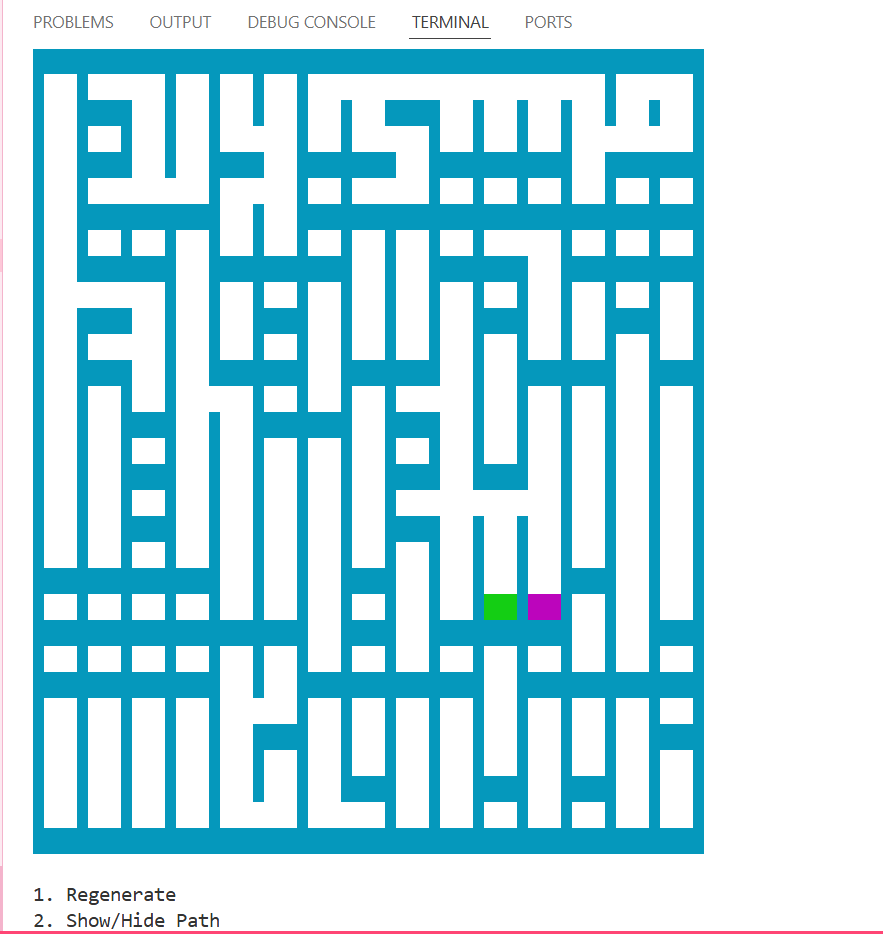
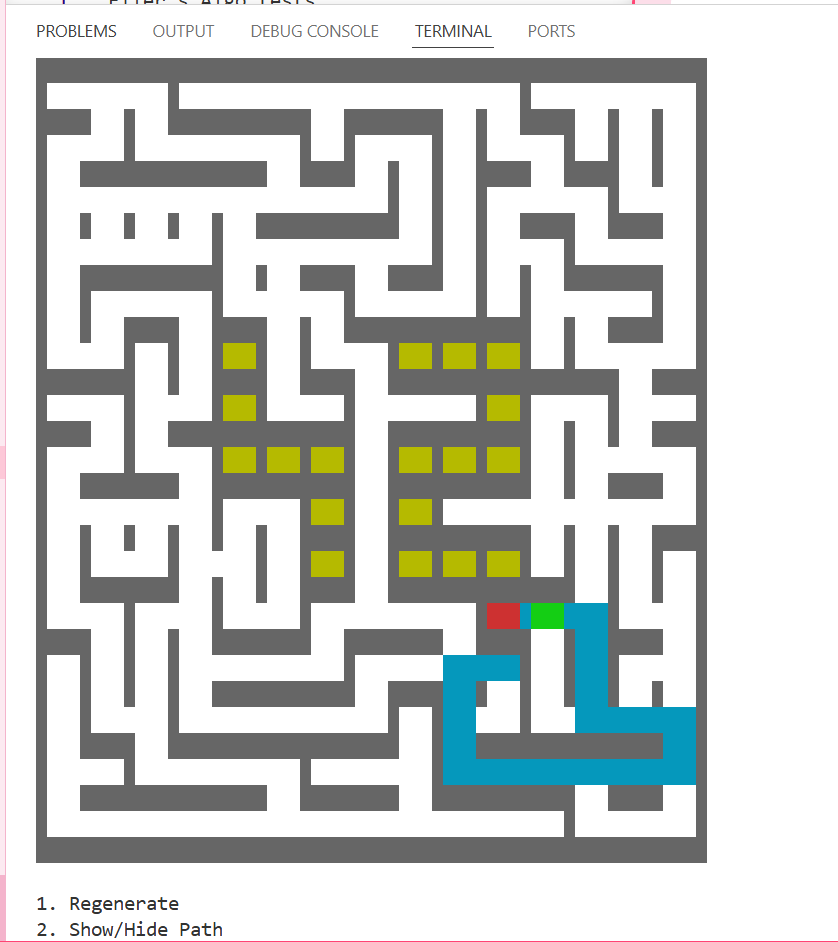
Resolved bug of close by entry exit issue

diff --git a/code/mazegen/generator.py b/code/mazegen/generator.py
@@ -173,6 +173,11 @@ class MazeGenerator:
             current.remove_wall(Direction.SOUTH)
             next_cell.remove_wall(Direction.NORTH)
 
+    def _randomize_seed(self) -> None:
+        if self.seed is None:
+            self.seed = random.randrange(2**32)
+        random.seed(self.seed)
+
     def generate_maze(self, algorithm: str = "DFS") -> None:
         self.create_grid()
 
@@ -184,7 +189,7 @@ class MazeGenerator:
         elif algorithm == "ELLER":
             self._generate_maze_eller()
         else:
-            pass
+            raise ValueError(f"Unknown algorithm: '{algorithm}'")
 
         if not self.perfect:
             self._generate_imperfections()
@@ -195,7 +200,7 @@ class MazeGenerator:
         start_cell.visited = True
         self._log_event("visit", cell=[start_cell.x, start_cell.y])
 
-        random.seed(self.seed)
+        self._randomize_seed()    
 
         stack = [start_cell]
         while (len(stack) > 0):
@@ -262,7 +267,8 @@ class MazeGenerator:
     # Eller's part
 
     def _generate_maze_eller(self) -> None:
-        random.seed(self.seed)
+        self._randomize_seed()
+        
         # row_sets tracks which set each cell belongs to in the current row
         row_sets: list[int | None] = list(range(self.width))
         next_set_id = self.width
@@ -278,16 +284,19 @@ class MazeGenerator:
                 # Merge if sets are different AND (random choice OR last row)
                 if row_sets[x] != row_sets[x+1]:
                     if is_last_row or random.choice([True, False]):
-                        # Avoid pattern cells to keep the "42" intact
                         if not (current_cell.pattern or next_cell.pattern):
-                            self._remove_walls(current_cell, next_cell)
-                            self._log_event(
-                                "carve", from_=[x, y], to=[x + 1, y])
-
-                            # unify the sets
-                            # all cells in the old set join the new set
                             old_set = row_sets[x+1]
                             new_set = row_sets[x]
+
+                            self._remove_walls(current_cell, next_cell)
+
+                            # verify no 3x3 was created
+                            if (self._is_3x3_open(x, y) or self._is_3x3_open(x + 1, y)):
+                                current_cell.walls |= int(Direction.EAST)
+                                next_cell.walls |= int(Direction.WEST)
+                                continue  # skip this merge
+
+                            self._log_event("carve", from_=[x, y], to=[x + 1, y])
                             for i in range(self.width):
                                 if row_sets[i] == old_set:
                                     row_sets[i] = new_set
@@ -393,21 +402,35 @@ class MazeGenerator:
                 # if wall doesnt exist, skip this iteration
                 continue
 
+            self._remove_walls(current_cell, neighbor_cell)
+
             # LARGE CORRIDOR CHECK
             # check 3x3 box centered on the CURRENT & NEIGHBOR
             if (self._is_3x3_open(random_cell_x, random_cell_y)
                     or self._is_3x3_open(neighbor_x, neighbor_y)):
+                # restore both sides of the wall
+                current_cell.walls |= int(direction)
+                opposite = {
+                    Direction.EAST: Direction.WEST,
+                    Direction.SOUTH: Direction.NORTH,
+                }
+                neighbor_cell.walls |= int(opposite[direction])
                 continue
-                # skip this iteration as this is a large corridor.
 
-            # all safe... remove walls
-            self._remove_walls(current_cell, neighbor_cell)
             removed_count += 1
 
     # =============================
     # Maze Solving Algorithm One - BFS
     # suitable for finding one path only... therefore, best for perfect maze.
     def solve_maze(self) -> str:
+        """Finds the shortest path from entry to exit using BFS.
+
+        Returns:
+            A string of directions representing the shortest path between entry and exit.
+
+        Raises:
+            ValueError: If the maze has not been generated yet.
+        """
         if not self.grid:
             raise ValueError("Maze not generated yet...")
 
@@ -521,7 +544,7 @@ class MazeGenerator:
     # =============================
     # the logging concept
 
-    def _log_event(self, action: str, **kwargs) -> None:
+    def _log_event(self, action: str, **kwargs: Any) -> None:
         """Record a single delta event."""
         self.history.append({
             "step": len(self.history),

diff --git a/code/config_handler.py b/code/config_handler.py
@@ -47,27 +47,21 @@ class Configuration():
             exit_pos, "EXIT", self.WIDTH, self.HEIGHT)
 
     def split_coords(self, coord_str: str, field_name: str,
-                     width: int, height: int) -> tuple[int, int]:
+                 width: int, height: int) -> tuple[int, int]:
         try:
-            coord_x = int(coord_str.split(",")[0].strip())
-            coord_y = int(coord_str.split(",")[1].strip())
-            if (
-                coord_x < 0
-                or coord_y < 0
-                or coord_x >= width
-                or coord_y >= height
-            ):
-                raise ValueError(
-                    f"Coordinates for {field_name} must be "
-                    f"within maze dimensions (0 <= x < {width},"
-                    f" 0 <= y < {height}): {coord_str}"
-                )
-            return (coord_x, coord_y)
-        except (ValueError, TypeError):
+            parts = coord_str.split(",")
+            coord_x = int(parts[0].strip())
+            coord_y = int(parts[1].strip())
+        except (ValueError, TypeError, IndexError):
             raise ValueError(
-                f"Invalid coordinate format used for {field_name}:"
-                f" {coord_str}"
+                f"Invalid coordinate format for {field_name}: '{coord_str}'"
             )
+        if coord_x < 0 or coord_y < 0 or coord_x >= width or coord_y >= height:
+            raise ValueError(
+                f"{field_name} coordinates out of bounds "
+                f"(0 <= x < {width}, 0 <= y < {height}): '{coord_str}'"
+            )
+        return (coord_x, coord_y)
 
     def set_perfect(self, perfect: str) -> None:
         if perfect not in ["True", "False"]:

diff --git a/code/maze_display.py b/code/maze_display.py
@@ -55,23 +55,22 @@ def show_ascii_maze(
                 x -= 1
             path_coords.add((y, x))
 
-    # cell rendering
+
     def render_cell(row: int, col: int) -> str:
         cell = maze.grid[row][col]
 
-        # as we are animating the cells for generation
-        # we fill all unvisited cells with grey
         if not cell.visited and not cell.pattern:
             return paint("███", Color.GREY.value)
 
-        # current cell active will be marked with yellow
         if current_cell is not None and cell is current_cell:
             return paint("███", Color.YELLOW.value + Color.BOLD.value)
 
-        # fixed cells such as start & end point, path way, pattern
-        if (row, col) == maze.entry:
+        entry_y, entry_x = maze.entry[1], maze.entry[0]
+        exit_y, exit_x = maze.exit[1], maze.exit[0]
+
+        if (row, col) == (entry_y, entry_x):
             return paint("███", entry_color + Color.BOLD.value)
-        if (row, col) == maze.exit:
+        if (row, col) == (exit_y, exit_x):
             return paint("███", exit_color + Color.BOLD.value)
         if (row, col) in path_coords:
             return paint("███", path_color + Color.BOLD.value)
@@ -130,7 +129,7 @@ def show_ascii_maze(
         else:
             # check if the path through the bottom
             if ((maze.height - 1, col) in path_coords
-                    and (maze.height, col) in path_coords):
+                    and (maze.height - 1, col) in path_coords):
                 line += paint("███", path_color + Color.BOLD.value)
             else:
                 line += SPACE * 3

diff --git a/code/a_maze_ing.py b/code/a_maze_ing.py
@@ -45,20 +45,24 @@ def generate_and_solve(config: Configuration) -> tuple[MazeGenerator, str]:
 def run_amazing(config: Configuration) -> None:
     maze, solution = generate_and_solve(config)
 
+    active_seed = maze.seed if maze.seed is not None else "random (no seed set)"
+
     show_path = False
     color_mode = 0
 
     while True:
         clear_screen()
         display_maze(maze, color_mode, show_path, solution)
+        print(f"=> Randomness Seed : {active_seed}") 
         print(
-            "\n1. Regenerate\n2. Show/Hide Path\n3. Rotate Colors\n"
+            "\n\n1. Regenerate\n2. Show/Hide Path\n3. Rotate Colors\n"
             "4. Write Output & Quit\n5. Animate Maze Generation\n"
             )
 
         choice = input("Choice? ").strip()
         if choice == '1':
             maze, solution = generate_and_solve(config)
+            active_seed = maze.seed if maze.seed is not None else "random (no seed set)"
             show_path = False
         elif choice == '2':
             show_path = not show_path

diff --git a/tasks.md b/tasks.md
@@ -6,7 +6,7 @@
 
 [✅] mazegenerator class setup
 
-[🛠] strict encapsulation concepts for data management
+[✅] strict encapsulation concepts for data management
 
 [✅] maze generation - algorithm 1
 [🛠] maze generation - algorithm 2
@@ -24,12 +24,14 @@
 [🛠] whl package creation
 [] package specific documentation
 
-[] animated working of the maze
+[✅] animated working of the maze
 
-[] documentation
-[] comparision of algorithms
-[] working explanation
+[] DOCSTRINGS!
 
-[] flake8
-[] mypy
-[] gitignore
+[🛠] documentation
+[🛠] comparision of algorithms
+[🛠] working explanation
+
+[🛠] flake8
+[🛠] mypy
+[🛠] gitignore
